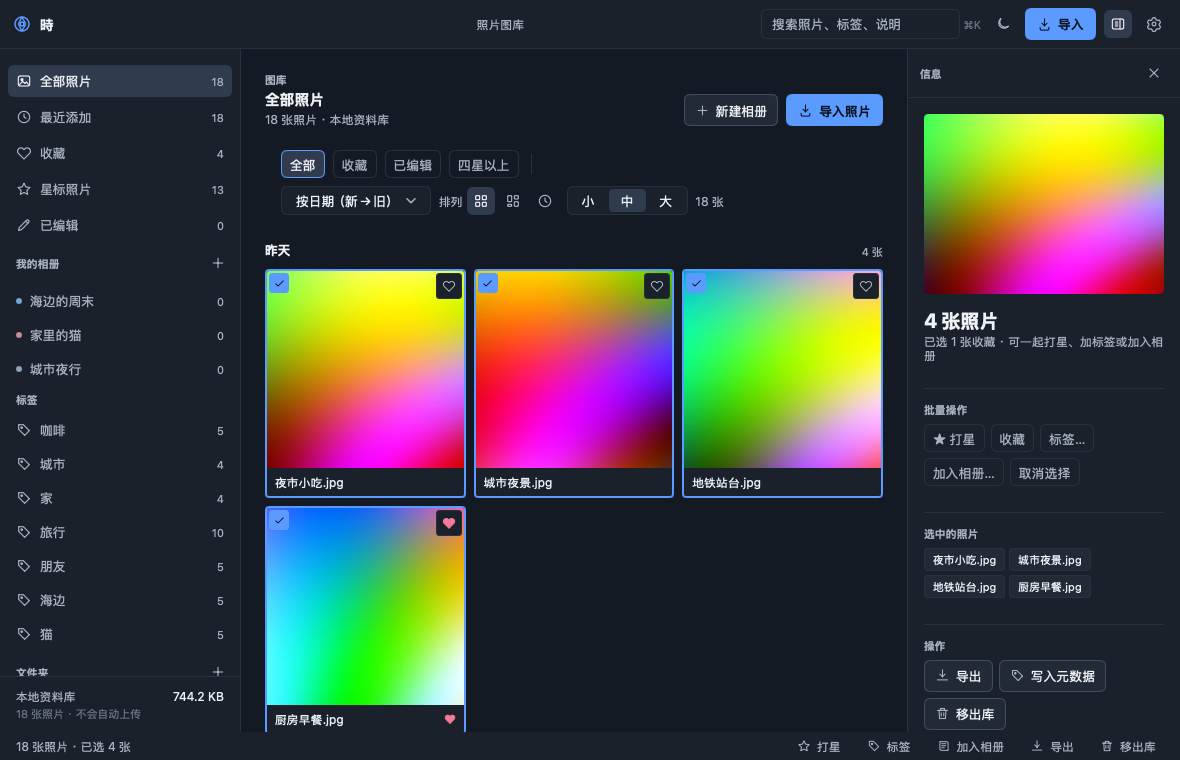
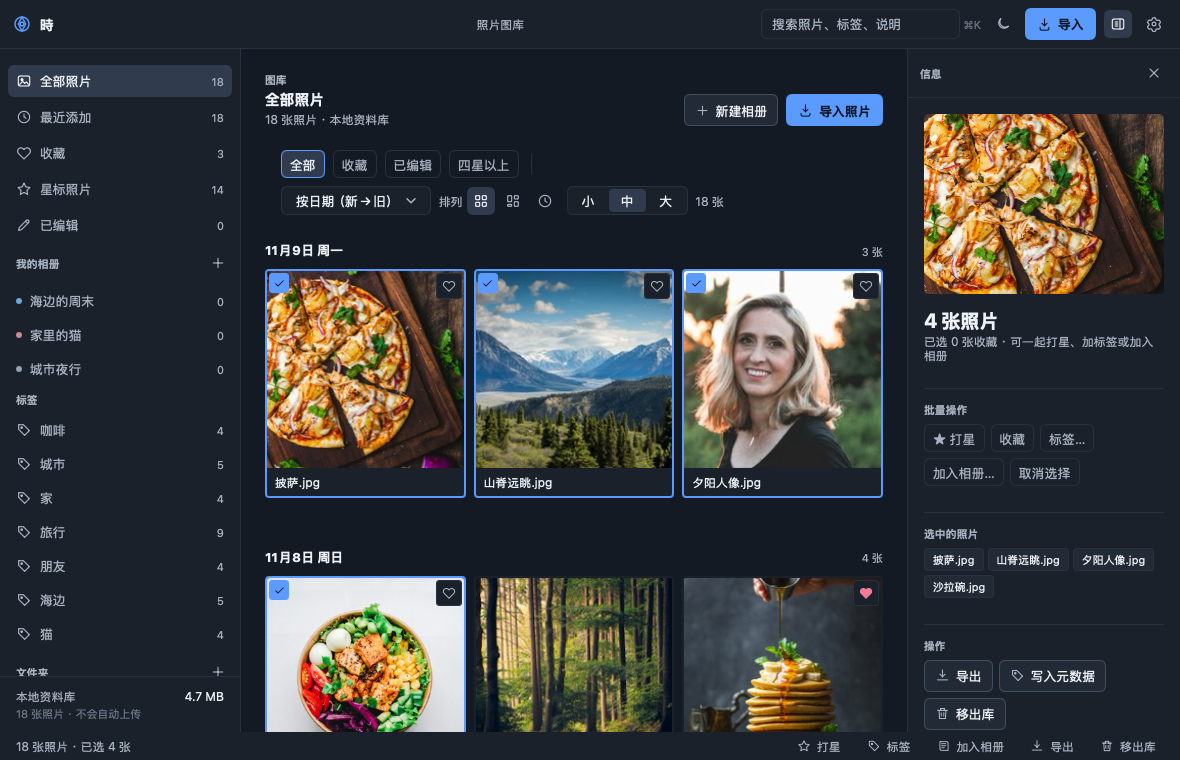
feat: use real Unsplash photos as the demo library
Assisted-by: Cindy (https://cindy.app)

diff --git a/app/preview_states_test.go b/app/preview_states_test.go
@@ -108,13 +108,15 @@ func TestPreviewStates(t *testing.T) {
 	a.libScroll.Y = 0
 	confetti := ui.NewTester(a.view, 1180, 760)
 	confetti.Frame()
-	if card, ok := confetti.Access("城市夜景.jpg"); ok {
-		area := card.Bounds
-		a.burstAt(confetti.Now(), rand.New(rand.NewSource(7)),
-			area, area.W-16, 16)
-		confetti.Advance(380 * time.Millisecond)
-		confetti.Frame()
-		save("ui-confetti.png", confetti)
-		a.fetti = nil
+	if len(a.photos) > 1 {
+		if card, ok := confetti.Access(a.photos[1].Name); ok {
+			area := card.Bounds
+			a.burstAt(confetti.Now(), rand.New(rand.NewSource(7)),
+				area, area.W-16, 16)
+			confetti.Advance(380 * time.Millisecond)
+			confetti.Frame()
+			save("ui-confetti.png", confetti)
+			a.fetti = nil
+		}
 	}
 }

diff --git a/bin/preview_seed.py b/bin/preview_seed.py
@@ -62,7 +62,7 @@ def main():
     names = sorted(os.listdir(DEMO))
     for i, name in enumerate(names):
         path = os.path.join(DEMO, name)
-        if not os.path.isfile(path):
+        if not os.path.isfile(path) or not name.lower().endswith((".jpg", ".jpeg", ".png")):
             continue
         st = os.stat(path)
         width, height = dimensions(path)

diff --git a/app/testdata/demo-photos/CREDITS.md b/app/testdata/demo-photos/CREDITS.md
@@ -1,0 +1,24 @@
+# 示例照片来源
+
+`app/testdata/demo-photos/` 的 14 张照片来自 [Unsplash](https://unsplash.com/)，
+按 [Unsplash License](https://unsplash.com/license) 使用：可免费用于商业与非商业用途，无需署名，
+但本文件列出出处以便追溯。
+
+| 文件             | 主题 | 原图                                                         |
+| ---------------- | ---- | ------------------------------------------------------------ |
+| 雪山云海.jpg     | 风景 | https://images.unsplash.com/photo-1506905925346-21bda4d32df4 |
+| 森林小径.jpg     | 风景 | https://images.unsplash.com/photo-1441974231531-c6227db76b6e |
+| 海边日落.jpg     | 风景 | https://images.unsplash.com/photo-1507525428034-b723cf961d3e |
+| 黄昏湖畔.jpg     | 风景 | https://images.unsplash.com/photo-1495616811223-4d98c6e9c869 |
+| 山脊远眺.jpg     | 风景 | https://images.unsplash.com/photo-1464822759023-fed622ff2c3b |
+| 湖泊倒影.jpg     | 风景 | https://images.unsplash.com/photo-1470770841072-f978cf4d019e |
+| 湖上小船.jpg     | 风景 | https://images.unsplash.com/photo-1501785888041-af3ef285b470 |
+| 绿墙前的猫.jpg   | 宠物 | https://images.unsplash.com/photo-1514888286974-6c03e2ca1dba |
+| 蓝背景的小狗.jpg | 宠物 | https://images.unsplash.com/photo-1583337130417-3346a1be7dee |
+| 餐厅晚餐.jpg     | 美食 | https://images.unsplash.com/photo-1414235077428-338989a2e8c0 |
+| 沙拉碗.jpg       | 美食 | https://images.unsplash.com/photo-1546069901-ba9599a7e63c    |
+| 披萨.jpg         | 美食 | https://images.unsplash.com/photo-1565299624946-b28f40a0ae38 |
+| 朋友聚餐.jpg     | 美食 | https://images.unsplash.com/photo-1555939594-58d7cb561ad1    |
+| 松饼早餐.jpg     | 美食 | https://images.unsplash.com/photo-1567620905732-2d1ec7ab7445 |
+
+这些图片只用于开发、测试与截图；应用本身不包含任何第三方图片。
